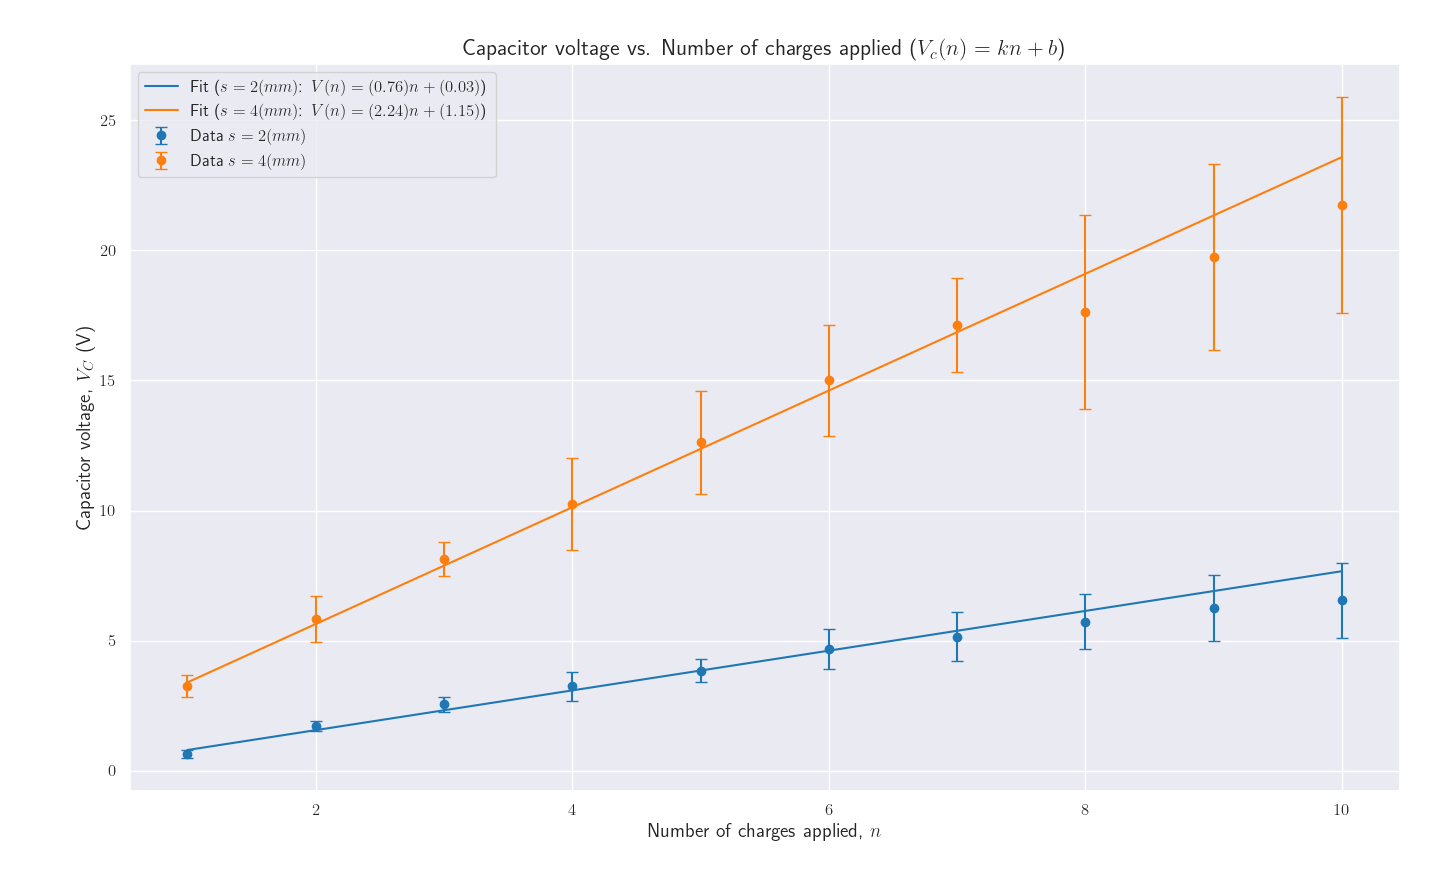
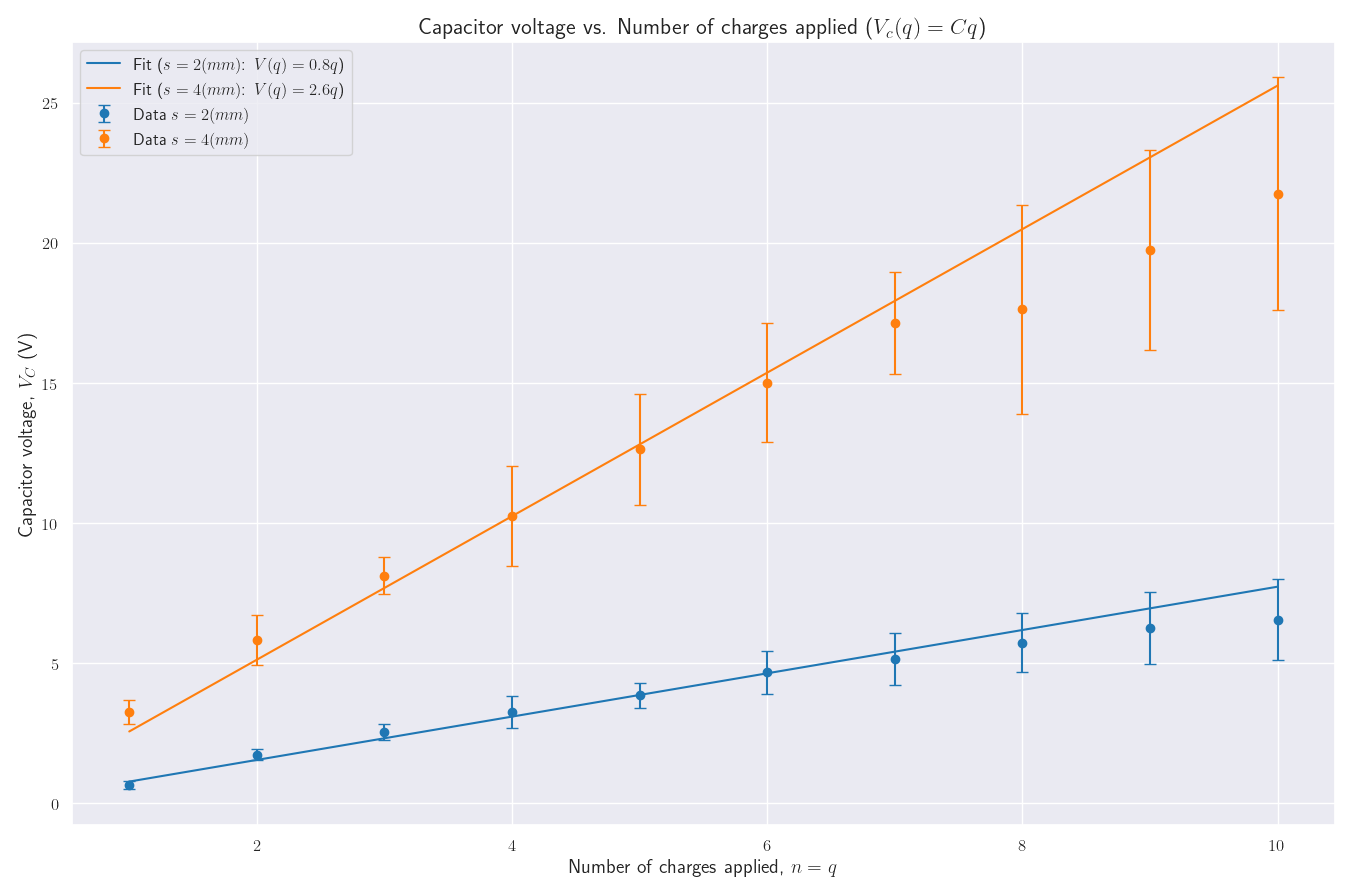
capacitors: minor fixes

diff --git a/capacitors/scripts/main.py b/capacitors/scripts/main.py
@@ -26,9 +26,9 @@ print(data)
 # -------------------------------------------------------
 # Define the Model and Fit the Data
 # -------------------------------------------------------
-def capacitance(q, k, b):
-    """ Linear model for capacitor voltage: V = kq + b """
-    return q * k + b
+def capacitance(q, k):
+    """ Linear model for capacitor voltage: V = kq """
+    return q * k
 
 # Fit the model for the group with separations 2mm and 4mm
 def fit_model(data):
@@ -73,7 +73,7 @@ def plot_bestfit(data, popt, color, sep):
         capacitance(x, *popt),
         color=f"tab:{color}",
         linestyle="-",
-        label=rf"Fit ($s = {sep} (mm)$: $V(n) = ({popt[0]:.2f})n + ({popt[1]:.2f})$)"
+        label=rf"Fit ($s = {sep} (mm)$: $V(q) = {popt[0]:.1f}q$)"
     )
 
 plot_error_bars(data2, "2", "blue")
@@ -81,9 +81,9 @@ plot_error_bars(data4, "4", "orange")
 plot_bestfit(data2, popt2, "blue", "2")
 plot_bestfit(data4, popt4, "orange", "4")
 
-ax.set_xlabel(r"Number of charges applied, $n$", fontsize=14)
+ax.set_xlabel(r"Number of charges applied, $n = q$", fontsize=14)
 ax.set_ylabel(r"Capacitor voltage, $V_C$ (V)", fontsize=14)
-ax.set_title(r"Capacitor voltage vs. Number of charges applied ($V_c(n) = kn + b$)", fontsize=16)
+ax.set_title(r"Capacitor voltage vs. Number of charges applied ($V_c(q) = Cq$)", fontsize=16)
 
 ax.tick_params(axis="both", which="major", labelsize=12)
 ax.legend(fontsize=12)

diff --git a/capacitors/scripts/distribution.py b/capacitors/scripts/distribution.py
@@ -35,6 +35,9 @@ popt, pcov = curve_fit(
     absolute_sigma=True
 )
 
+print(popt)
+print(pcov)
+
 # -------------------------------------------------------
 # Plotting
 # -------------------------------------------------------
